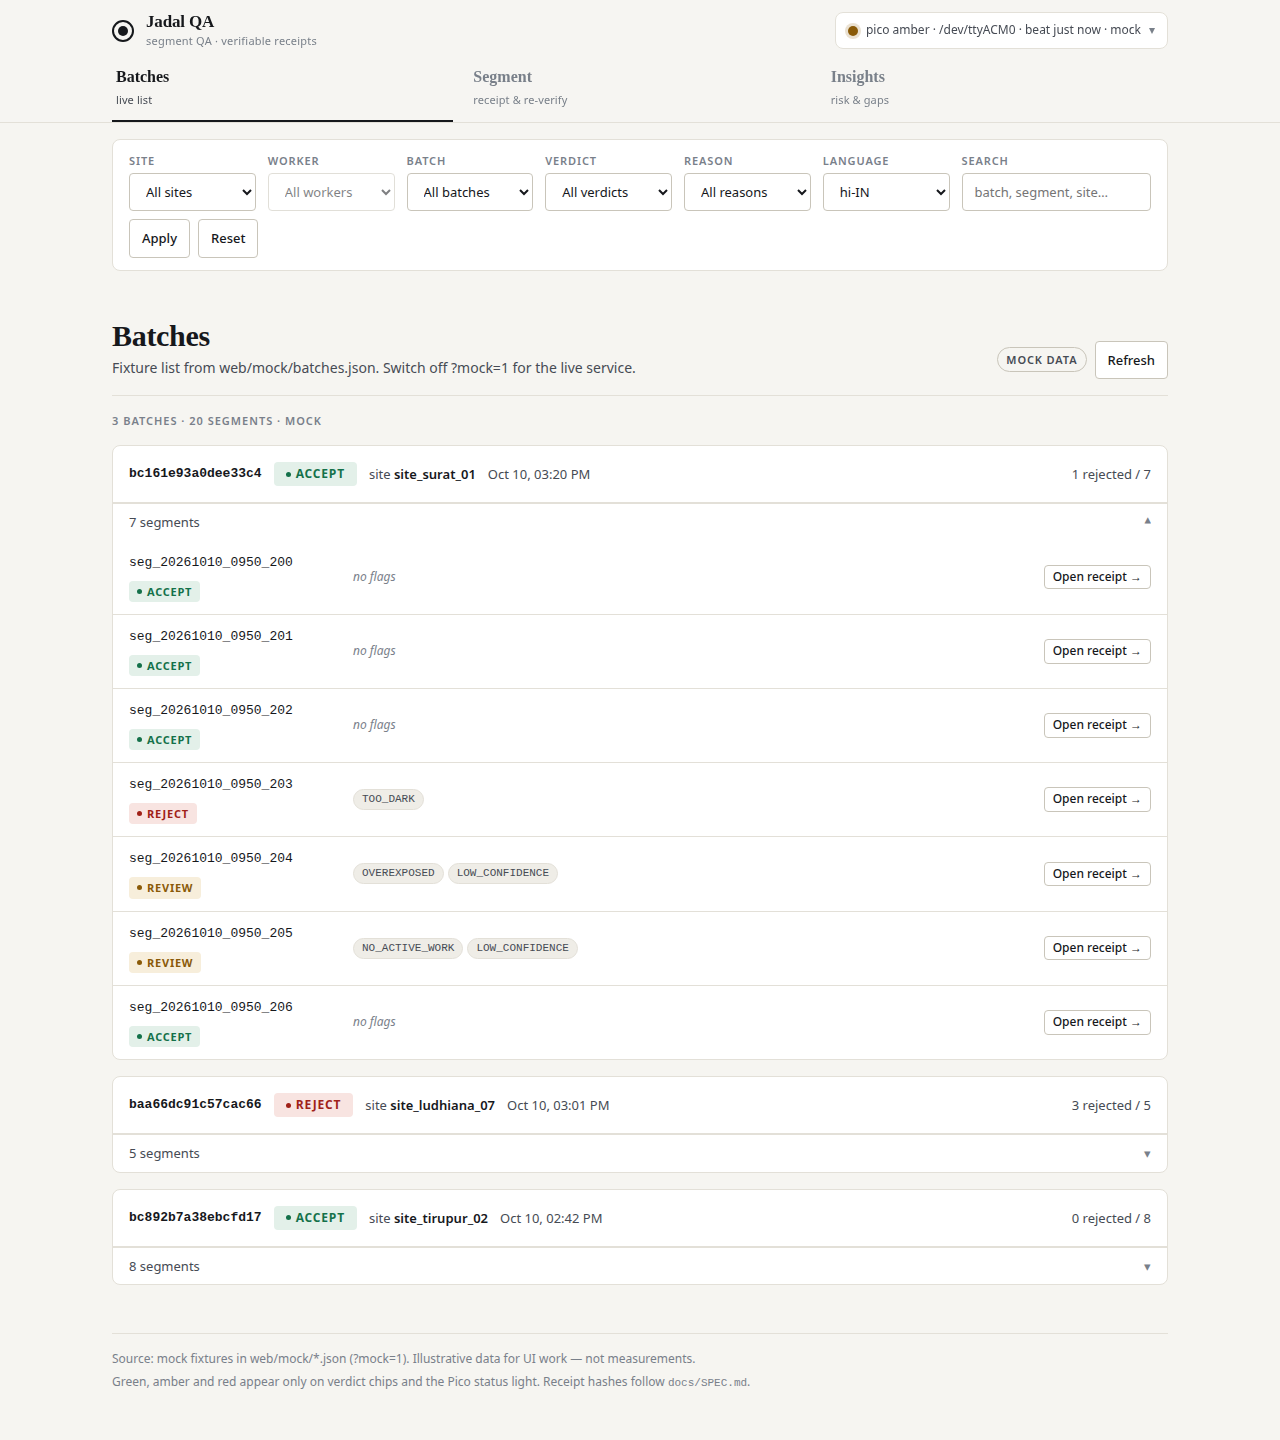
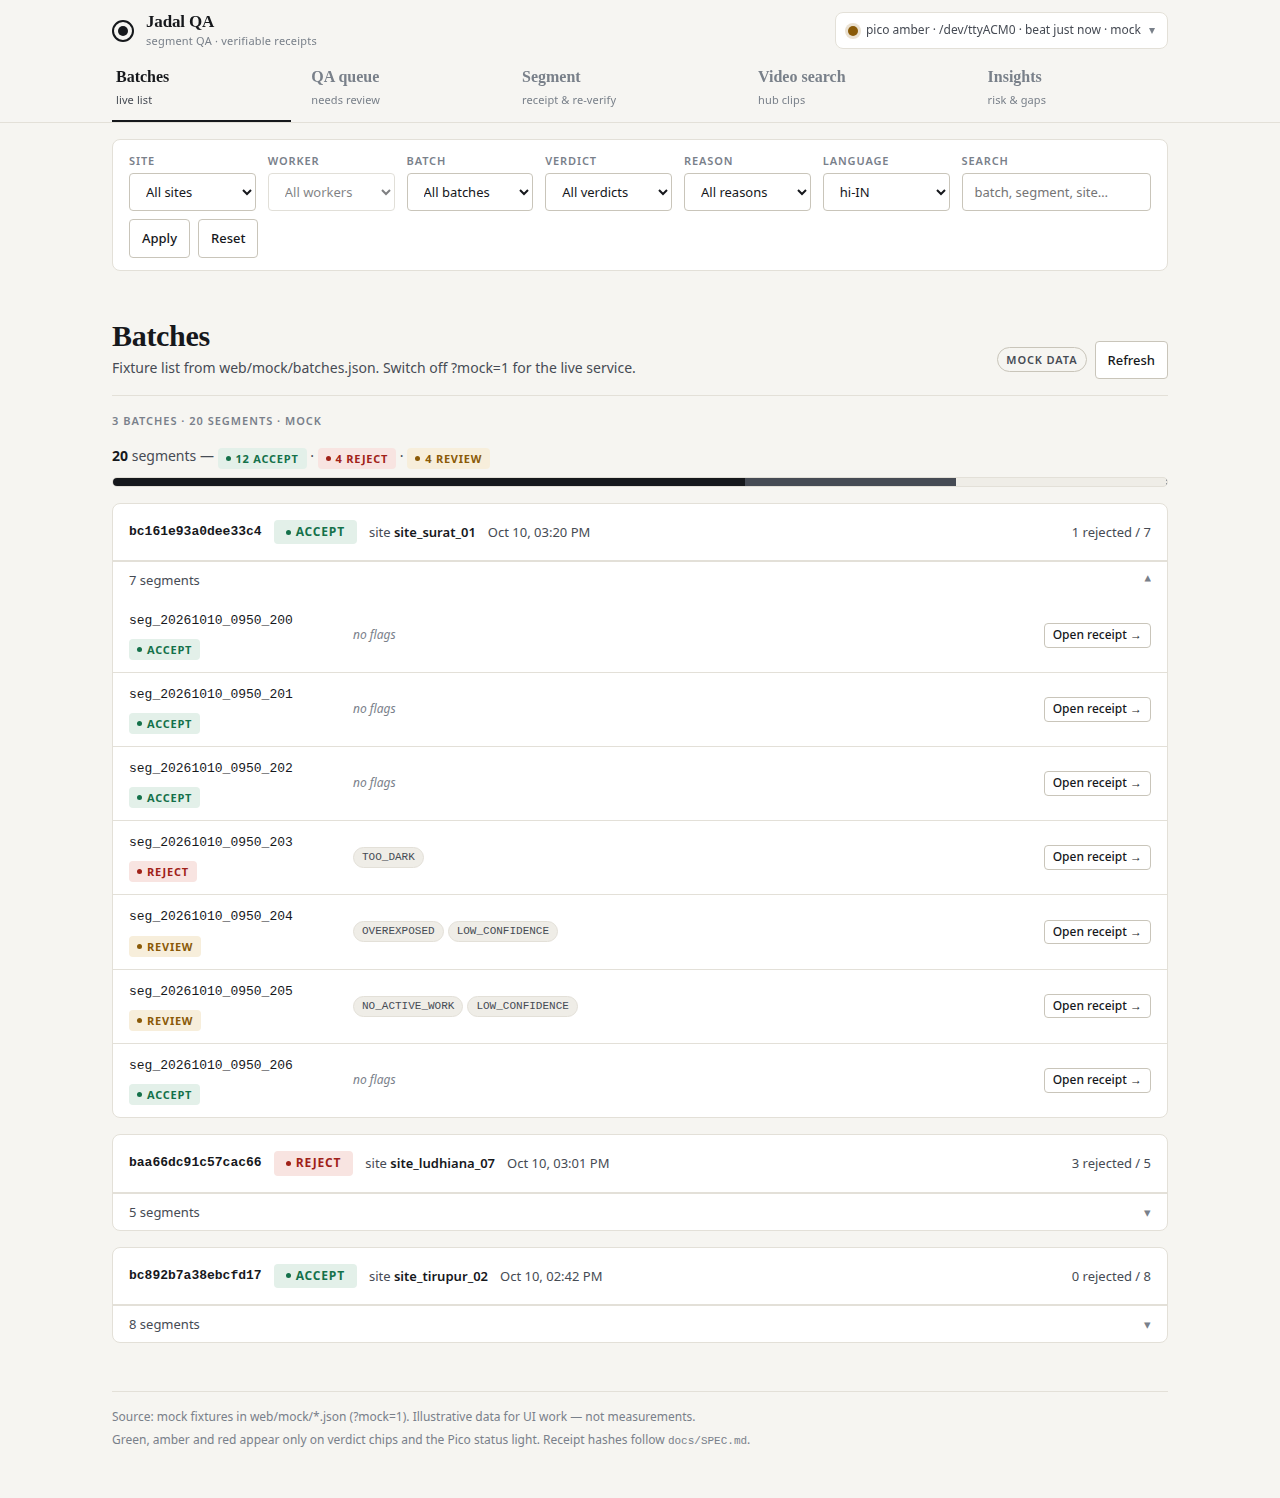
dashboard3: retaken screenshots for all views plus module report

diff --git a/docs/reports/dashboard3.md b/docs/reports/dashboard3.md
@@ -1,0 +1,126 @@
+# dashboard3 — DASHBOARD POLISH ROUND (follow-up to merged PR #21)
+
+Branch: `feat/dashboard3` → PR against `main`. Owned files only:
+`web/**`, `docs/screens/**`, `web/test_dashboard.py`, `docs/reports/dashboard3.md`.
+No changes to `jadal/config.py`, `jadal/__init__.py`, `docs/SPEC.md`.
+
+## What the re-review asked for, and what changed
+
+### (1) Explicit-null error bound tri-state (the IMPORTANT bug)
+
+`normRisk` already preserves explicit null via `present()`, but every
+consumer tested `d.error_bound !== undefined && isFinite(d.error_bound)`.
+`isFinite(null)` coerces to `0` → `true`, so `upper_bound: null` drew the
+bound line at 0 and suppressed the caption.
+
+Fix: one central gate in `web/api.js`:
+
+```js
+function isBound(v) {
+  return typeof v === 'number' && isFinite(v);
+}
+```
+
+All five consumers in `web/app.js` now go through `A.isBound`
+(`riskChart` line, insights caption, `riskStatsRow`, `riskLegend`,
+chart aria-label). Rendering:
+
+- absent (`undefined`) → no line, caption `bound not reported`;
+- explicit `null` → no line, caption `not certified (no threshold meets the target)`;
+- finite number → line drawn.
+
+New `Dashboard3` tests in `web/test_dashboard.py` pin the tri-state in
+node (`BOUND-OK`) and fail on any bare-`isFinite(error_bound)` line.
+
+### (2) Risk chart at 390 px
+
+Old artboard was 720 units wide (≈0.45× shrink on a phone, 19-unit ticks
+→ ~9 px effective) and the `error` axis title collided with the top tick.
+New artboard is 480 wide (≈0.75× shrink), endpoints-only ticks (2 + 2),
+16-unit type (≈12 px effective at 390), axis titles clear of ticks, and
+`.chart svg` is capped at `max-width: 40rem` so desktop does not stretch
+the art. Verified by reading `docs/screens/insights-390.png`.
+
+### (3) Segment page order
+
+New order: summary card (verdict chip + segment id + reason chips +
+confidence/threshold/site/batch definition list) → Re-verify card (button
++ MATCH/MISMATCH banner, ids unchanged) → compact `Steps` strip (wrapping
+chips, no horizontal scroll) → `Receipt detail` tree immediately below →
+Segment facts, Voice message, Hashes, Signals each collapsed in
+`<details class="more">`. Verified at 1280, 390 and dark.
+
+### (4) No text dumps; funnel; QA queue; Video search
+
+- Audit: no `JSON.stringify` / `<pre>` dumps existed in `app.js`
+  (confirmed by grep — nothing found). `rv-detail`/`rv-diff` already
+  render structured lists; hashes/signals were already stat grids and are
+  now additionally collapsed behind `<details>`.
+- Batches leads with a one-line funnel (`20 segments — 12 accept ·
+  4 reject · 4 review`) plus a neutral-ink segmented bar (verdict colours
+  stay on chips + Pico LED per the project colour rule). Counts come from
+  `A.funnelCounts` over the currently filtered rows. Global dropdown
+  filters unchanged.
+- New `QA queue` view (`#/queue`): review-routed segments via
+  `A.queueRows` (ranked by `queue_priority` desc; field absent in fixtures
+  → `—` badge, fallback sort verdict → newest batch → id), with a
+  reason-code dropdown and an `Open segment →` action reusing the
+  segment→receipt resolver.
+- New `Video search` view (`#/videos`): query box + site/verdict/reason
+  dropdowns, results grid with thumbnails (`client.hubThumbUrl`) and
+  on-demand `<video src="…#t=start,end">` (`client.hubVideoUrl`). Mock
+  mode projects batch fixtures into labelled placeholders (no footage
+  ships); live mode calls `GET /hub/search` through `client.hubSearch`
+  (`A.normHub`); a 404 renders `Video hub not available in this
+  deployment`. No hub URL literal appears in `app.js` (pinned by test).
+- All field access stays in `web/api.js` (`isBound`, `funnelCounts`,
+  `queueRows`, `queueReasons`, `normHub`, `hubSearch`, `hubThumbUrl`,
+  `hubVideoUrl`, extended `parseHash` routes).
+
+### (5) Screenshots
+
+`docs/screens/take_shots.cjs` now covers all five views at 1280, 390 and
+dark-1280 (plus the two re-verify banners), one fresh page per shot so
+hash-only navigations cannot leak JS state between shots (this had left a
+stale MISMATCH banner in segment shots). Every screenshot was re-taken and
+read; fixes applied for what was seen (axis-label collision, stale
+mismatch state, tab wrap at 390 handled with hint hiding).
+
+## REAL command outputs
+
+```
+$ PYTHONNOUSERSITE=1 /home/parshu/envs/jadal/bin/python -m unittest discover -s web -t web
+Ran 24 tests in 0.190s
+OK
+$ node --check web/api.js && node --check web/app.js
+node --check: api.js + app.js OK
+$ node -e <null-bound probe>
+explicit null bound -> error_bound = null
+riskChart hasBound (A.isBound) = false
+caption = not certified (no threshold meets the target)
+absent bound -> isBound = false caption = bound not reported
+$ node docs/screens/take_shots.cjs
+batches-1280.png: 1280x900 overflow=0px consoleErrors=0 failedReqs=0
+queue-1280.png: 1280x900 overflow=0px consoleErrors=0 failedReqs=0
+videos-1280.png: 1280x900 overflow=0px consoleErrors=0 failedReqs=0
+segment-1280.png: 1280x900 overflow=0px consoleErrors=0 failedReqs=0
+reverify-1280.png: ✓ MATCH — receipt reproduces
+reverify-mismatch-1280.png: ✕ MISMATCH — receipt does not reproduce
+insights-1280.png: 1280x900 overflow=0px consoleErrors=0 failedReqs=0
+batches-390.png: 390x844 overflow=0px consoleErrors=0 failedReqs=0
+queue-390.png: 390x844 overflow=0px consoleErrors=0 failedReqs=0
+segment-390.png: 390x844 overflow=0px consoleErrors=0 failedReqs=0
+videos-390.png: 390x844 overflow=0px consoleErrors=0 failedReqs=0
+insights-390.png: 390x844 overflow=0px consoleErrors=0 failedReqs=0
+batches-dark-1280.png, queue-dark-1280.png, videos-dark-1280.png,
+segment-dark-1280.png, insights-dark-1280.png: overflow=0 consoleErrors=0 failedReqs=0
+ALL SHOTS OK
+```
+
+NOT DONE:
+- `queue_priority` is absent in fixtures, so queue order falls back to
+  verdict → newest batch → id until the API sends the field.
+- Video hub is mock placeholders only; live playback is untested against a
+  real `/hub` (no such deployment here).
+- `tests/` suite (`unittest discover -s tests`) was not run: outside owned
+  files and untouched by this diff.
